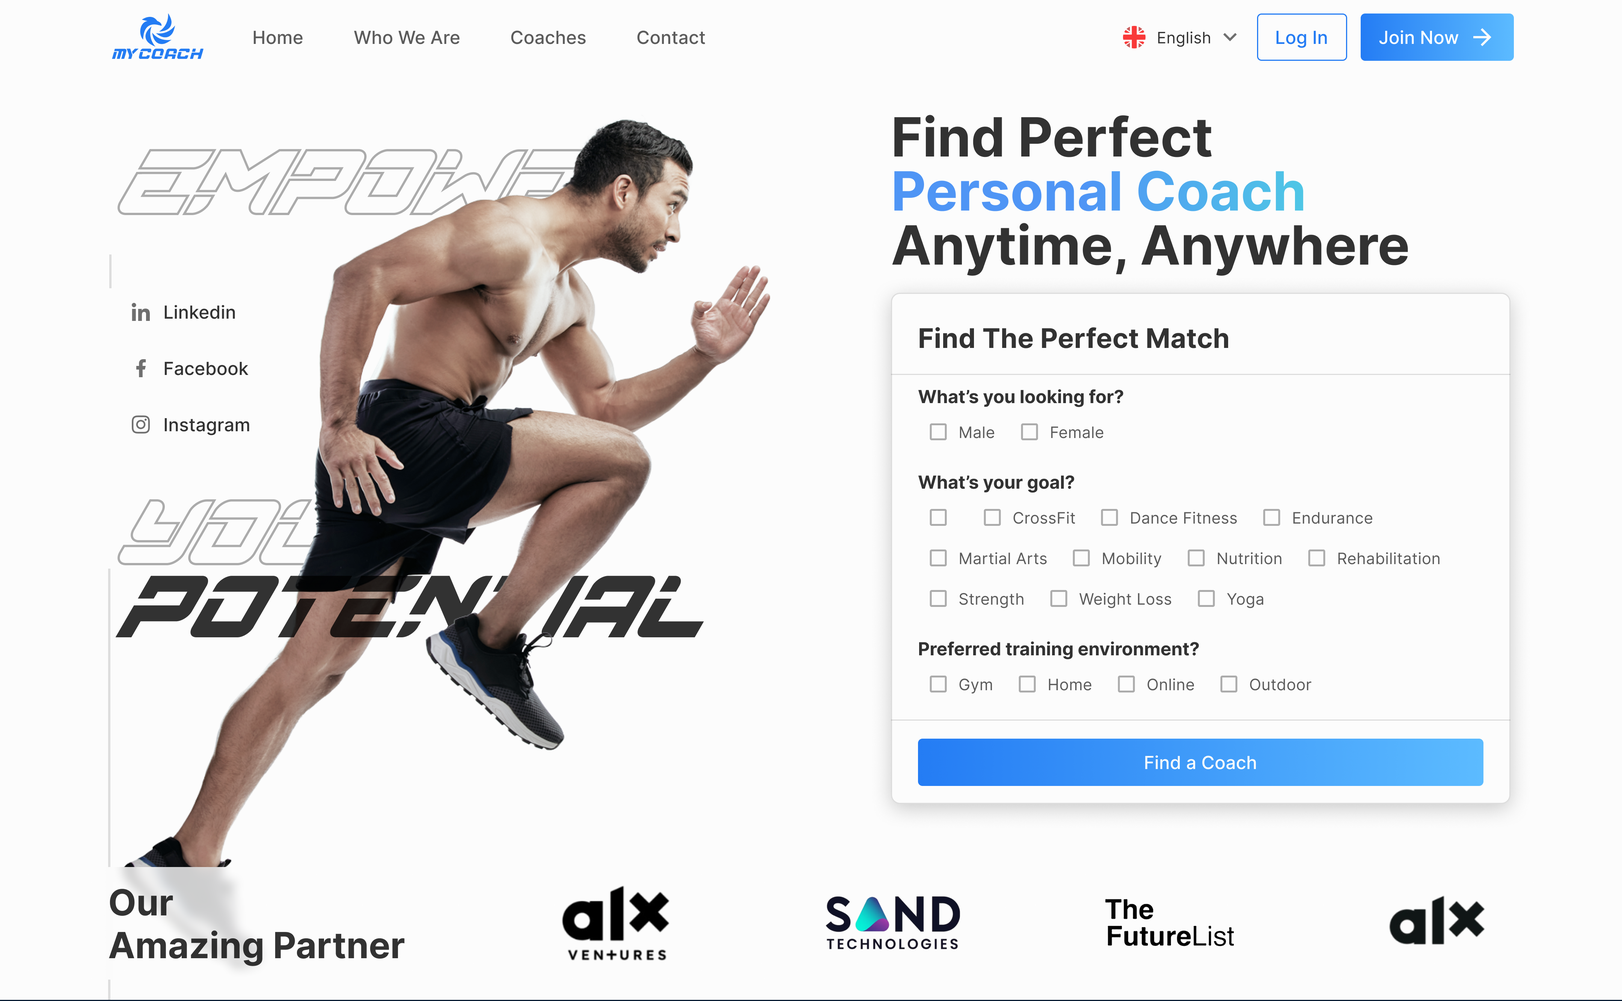
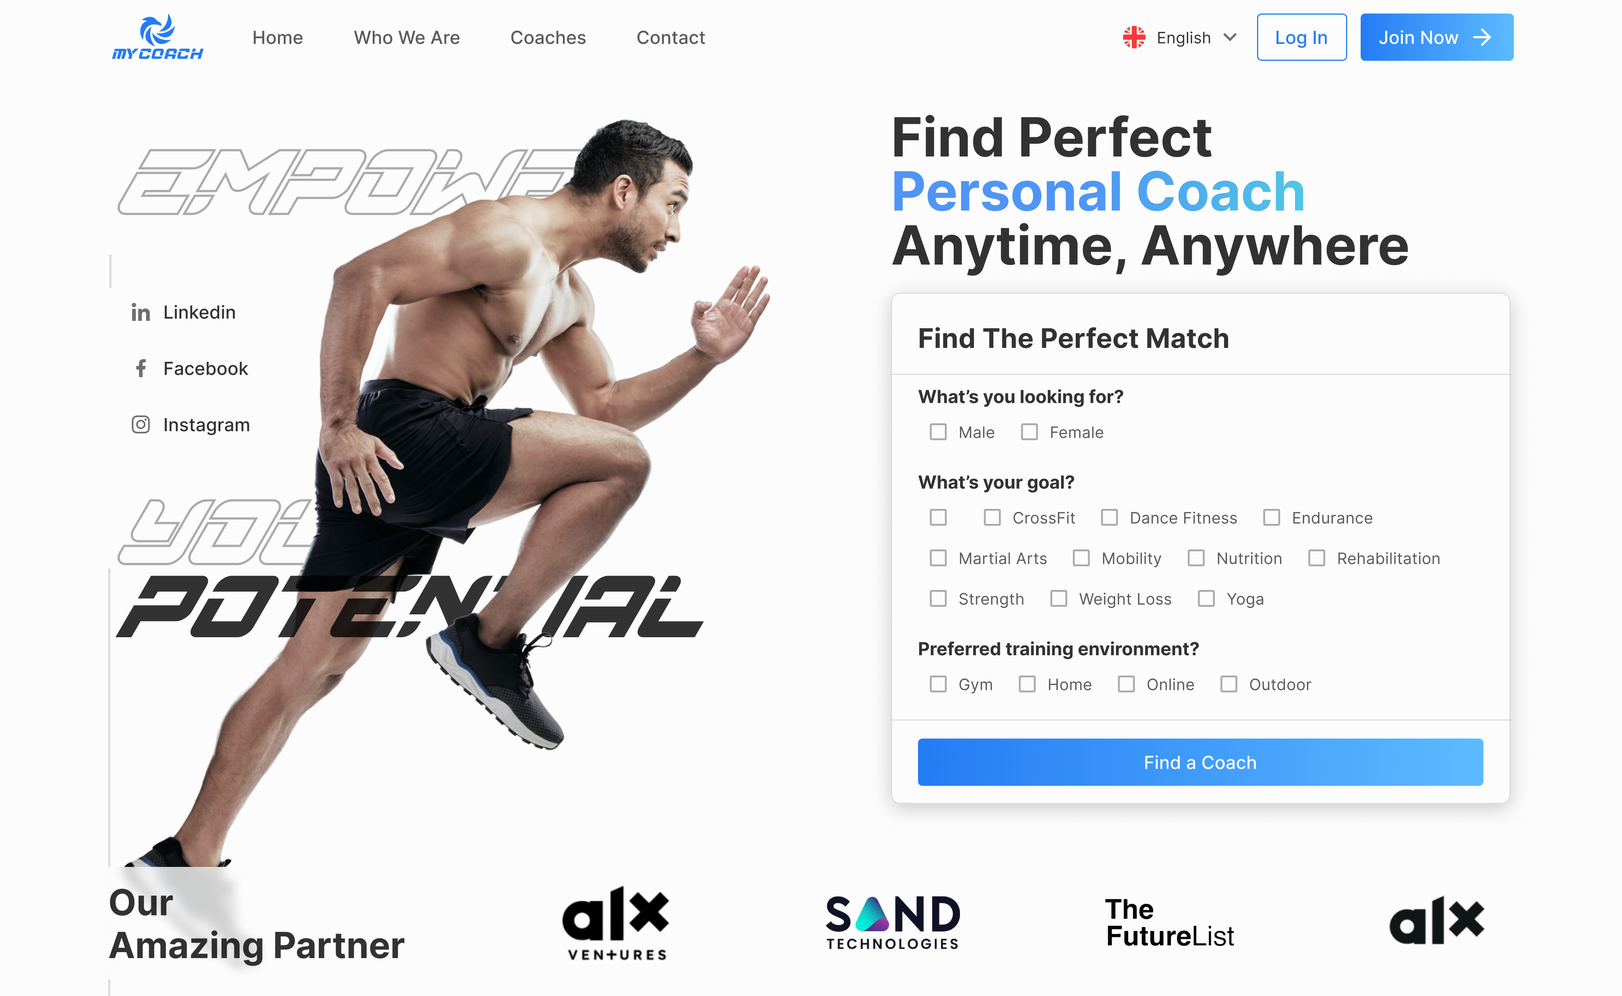
feat: implement CaseStudies and Skills components with associated project assets

diff --git a/src/components/CaseStudies.tsx b/src/components/CaseStudies.tsx
@@ -4,67 +4,201 @@ import { X, ExternalLink, ArrowUpRight } from 'lucide-react';
 import mycoachCaseStudyImage from '../assets/featured-work/mycoach-casestudy.png';
 import vouchifyCaseStudyImage from '../assets/featured-work/vouchify-casestudy.png';
 import lifelineCaseStudyImage from '../assets/featured-work/lifeline-casestudy.png';
+import mycoachOverviewImg from '../assets/featured-work/mycoach-header.png';
+import vouchifyOverviewImg from '../assets/featured-work/vouchify-header.png';
+import lifelineOverviewImg from '../assets/featured-work/lifeline-header.png';
+import vouchifySolutionImg from '../assets/featured-work/vouchify-solution.png';
+import vouchifyOutcomeImg from '../assets/featured-work/vouchify-outcome.png';
+import lifelineSolutionImg from '../assets/featured-work/lifeline-solution.png';
+import lifelineOutcomeImg from '../assets/featured-work/lifeline-outcome.png';
+import mycoachSolutionImg from '../assets/featured-work/mycoach-solution.jpg';
+import mycoachOutcomeImg from '../assets/featured-work/mycoach-outcome.jpg';
 
-const caseStudies = [
+
+
+const BulletList = ({ items }: { items: string[] }) => (
+  <ul className="flex flex-col items-start gap-3 mt-3">
+    {items.map((item, i) => (
+      <li key={i} className="flex items-center gap-2 text-primary leading-relaxed">
+        <span className="w-1.5 h-1.5 rounded-full bg-brand flex-shrink-0" />
+        <span dangerouslySetInnerHTML={{ __html: item }} />
+      </li>
+    ))}
+  </ul>
+);
+
+const SectionImage = ({ src, alt }: { src?: string; alt: string }) => {
+  if (!src) return null;
+  return (
+    <div className="mt-5 rounded-2xl overflow-hidden border border-gray-100 shadow-sm">
+      <img src={src} alt={alt} className="w-full object-cover" />
+    </div>
+  );
+};
+
+type CaseStudy = {
+  id: string;
+  title: string;
+  subtitle: string;
+  image: string;
+  metrics: { label: string; value: string }[];
+  overview: React.ReactNode;
+  overviewImage?: string;
+  challenge: React.ReactNode;
+  role: string[];
+  solution: React.ReactNode;
+  solutionImage?: string;
+  process: React.ReactNode;
+  outcome: React.ReactNode;
+  outcomeImage?: string;
+  technologies: string[];
+  site?: string;
+};
+
+const caseStudies: CaseStudy[] = [
   {
     id: 'mycoach',
     title: 'MYCOACH',
     subtitle: 'Coaching Marketplace Platform',
     image: mycoachCaseStudyImage,
+    overviewImage: mycoachOverviewImg,
+    solutionImage: mycoachSolutionImg,
+    outcomeImage: mycoachOutcomeImg,
     metrics: [
       { label: 'Users', value: '1000+' },
       { label: 'Booking Rate', value: '89%' },
       { label: 'Rating', value: '4.8/5' }
     ],
-    overview: 'A full-featured marketplace connecting coaches with clients, featuring intelligent matching, real-time booking, payment processing, and session management.',
-    problem: 'The coaching industry was fragmented and hard to navigate. Clients struggled to find the right coach, and coaches lacked professional tools to manage their business.',
-    solution: 'We built an end-to-end platform with a smart matching algorithm, integrated booking calendar, payment rails, video session links, and a coach analytics dashboard.',
-    process: 'Discovery → User Research → Wireframes → Hi-fi Prototypes → Engineering → Beta Testing → Launch',
-    outcome: '2,400+ registered users, 89% booking completion rate, and 4.8/5 average coach rating within first 6 months of launch.',
+    overview: <>
+      My Coach is a coaching marketplace designed to help individuals discover, connect with, and book qualified personal trainers based on their personal goals and preferences. The platform aims to remove the friction often associated with finding trusted coaches while providing trainers with tools to manage and grow their businesses.
+      <br /><br />
+      As Co-Founder, Product Designer, and Full-Stack Developer, I was responsible for transforming the idea into a functional MVP, leading product strategy, designing the user experience, and developing the platform's architecture.
+    </>,
+    challenge: <>
+      Many people struggle to find trustworthy fitness coaches who match their specific needs. Existing solutions often lack transparency, personalization, and streamlined booking experiences. Coaches also face challenges managing client relationships and showcasing their expertise online.
+      <br /><br />
+      The goal was to create a platform that would simplify coach discovery, improve trust, and provide a seamless booking experience for both coaches and clients.
+    </>,
+    role: ['CEO', 'Product Strategy', 'UX Research', 'MVP Development', 'Growth Marketing', 'Sales & Partnerships'],
+    solution: 'To address the challenges faced by both coaches and clients, I designed and developed a platform that streamlined the entire coaching journey, from discovery to long-term engagement. The experience was built around personalized coach matching, allowing users to find professionals aligned with their goals, preferences, and coaching needs. I created detailed coach profiles that established trust through transparent information and social proof, while a seamless booking flow simplified scheduling and session management. Beyond the client experience, I designed tools that empowered coaches to manage their services, monitor client progress, and grow their businesses more effectively. The result was a scalable, mobile-responsive platform that balanced user experience, business objectives, and operational efficiency.',
+    process: <>
+      I started by identifying the key pain points experienced by both coaches and clients. Based on these findings, I designed user journeys focused on reducing friction during onboarding, coach discovery, and booking.
+      <br /><br />
+      The platform was structured around three core experiences:
+      <BulletList items={[
+        'Coach discovery and matching',
+        'Session booking and management',
+        'Progress tracking and client engagement',
+      ]} />
+    </>,
+    outcome: <BulletList items={[
+      'Successfully onboarded <strong>14</strong> certified coaches before launch',
+      'Built a waiting list of <strong>25+</strong> early users',
+      'Participated in <strong>ALX Ventures</strong> and <strong>Accelab x MDJS</strong> accelerator programs',
+      'Established the foundation for scaling into additional coaching categories',
+      'Created a complete MVP ready for beta testing',
+    ]} />,
     technologies: ['React', 'Laravel', 'MySQL', 'Figma'],
-    site: 'https://mycoach.ma/'
+    site: 'https://mycoach.ma/',
   },
   {
     id: 'vouchify',
     title: 'VOUCHIFY',
-    subtitle: 'Digital Membership & Voucher',
+    subtitle: 'Digital Membership & Voucher Platform',
     image: vouchifyCaseStudyImage,
+    overviewImage: vouchifyOverviewImg,
+    solutionImage: vouchifySolutionImg,
+    outcomeImage: vouchifyOutcomeImg,
     metrics: [
-      { label: 'Active Widgets', value: '500+' },
-      { label: 'Conversion Lift', value: '+24%' },
-      { label: 'Reviews Managed', value: '10K+' }
+      { label: 'Businesses', value: '1000+' },
+      { label: 'Subscriptions Sold', value: '100K+' },
+      { label: 'Countries', value: '20+' },
     ],
-    overview: 'An all-in-one platform for gathering, managing, and showcasing customer testimonials via customizable widgets and dedicated landing pages.',
-    problem: 'Businesses struggle to collect authentic video and text testimonials, and displaying them attractively requires custom development.',
-    solution: 'A seamless platform with automated collection campaigns, a moderation dashboard, and embeddable wall-of-love widgets.',
-    process: 'Concept → MVP → Customer Feedback → Iteration → V2 Release',
-    outcome: 'Helped over 100 businesses increase their landing page conversion rates by an average of 24% through social proof.',
-    technologies: ['Next.js', 'Node.js', 'PostgreSQL', 'Tailwind'],
-    site: 'https://usevouchify.com/'
+    overview: <>
+      Vouchify is a digital membership and voucher platform that enables businesses to create, distribute, and manage digital passes that integrate seamlessly with mobile wallets.
+      <br /><br />
+      As a Full-Stack Developer and Product Designer, I worked on both the user experience and technical implementation of key platform features.
+    </>,
+    challenge: <>
+      Traditional membership and voucher systems often rely on outdated processes, creating friction for both businesses and customers. The challenge was to create a scalable and intuitive platform that simplified pass creation, management, and distribution.
+    </>,
+    role: ['Product Design', 'Full-Stack Development', 'User Experience Design', 'Feature Planning', 'Technical Architecture'],
+    solution: 'I helped create a modern digital membership and voucher platform that made it easy for businesses to issue, manage, and distribute digital passes while delivering a seamless experience for end users. The product was designed to eliminate the complexity traditionally associated with membership programs by providing intuitive workflows, streamlined onboarding, and centralized management tools. I worked across both design and development to ensure that businesses could efficiently manage their digital offerings while customers could easily access and use passes through mobile wallet integrations. The result was a scalable platform that combined simplicity, flexibility, and strong user experience, making digital memberships more accessible for organizations of all sizes.',
+    process: <>
+      I worked closely with the founding team to understand business requirements and user expectations.
+      <br /><br />
+      The focus was on:
+      <BulletList items={[
+        'Streamlining onboarding flows',
+        'Simplifying pass management',
+        'Creating intuitive dashboards',
+        'Ensuring mobile wallet compatibility',
+        'Building scalable frontend experiences',
+      ]} />
+      <br />
+      Every feature was designed to reduce complexity while maintaining flexibility for different business use cases.
+    </>,
+    outcome: <BulletList items={[
+      'Delivered end-to-end product experiences from design to implementation',
+      'Improved usability through simplified workflows',
+      'Built scalable frontend architecture for future growth',
+      'Helped create a seamless digital membership experience for businesses and customers',
+    ]} />,
+    technologies: ['React', 'TypeScript', 'Tailwind CSS', 'Node.js', 'Figma'],
+    site: 'https://usevouchify.com/',
   },
   {
     id: 'lifeline',
     title: 'LifeLine',
     subtitle: 'Health-Tech Platform',
     image: lifelineCaseStudyImage,
+    overviewImage: lifelineOverviewImg,
+    solutionImage: lifelineSolutionImg,
+    outcomeImage: lifelineOutcomeImg,
     metrics: [
       { label: 'Patients', value: '50K+' },
       { label: 'Hospitals', value: '12' },
-      { label: 'Uptime', value: '99.9%' }
+      { label: 'Uptime', value: '99.9%' },
     ],
-    overview: 'A comprehensive patient portal designed to streamline communication between patients and healthcare providers.',
-    problem: 'Patients experienced long wait times for appointments and difficulty accessing their medical records securely.',
-    solution: 'A secure, HIPAA-compliant portal offering appointment scheduling, secure messaging, and easy access to test results.',
-    process: 'Requirements Gathering → Security Audits → Prototyping → Development → Staged Rollout',
-    outcome: 'Reduced average appointment scheduling time by 60% and decreased hospital administrative overhead by 30%.',
-    technologies: ['Vue.js', 'Python', 'AWS', 'Docker'],
-    site: 'https://mylifeline.health/'
-  }
+    overview: <>
+      LifeLine is a healthcare platform designed to improve access to medical services through digital solutions that connect patients, healthcare providers, pharmacies, and insurers. The platform includes appointment booking, insurance workflows, pharmacy management tools, and patient engagement experiences.
+      <br /><br />
+      As a Product Designer and Frontend Developer, I contributed to both the design and implementation of multiple products within the LifeLine ecosystem.
+    </>,
+    challenge: <>
+      Healthcare workflows are often complex, fragmented, and difficult for patients to navigate. Providers also face operational challenges caused by disconnected systems and inefficient processes.
+      <br /><br />
+      The objective was to simplify healthcare interactions while maintaining compliance, trust, and accessibility for all stakeholders.
+    </>,
+    role: ['Product Design', 'UX/UI Design', 'Frontend Development', 'Workflow Optimization', 'User Journey Mapping'],
+    solution: 'The solution focused on creating a unified digital healthcare experience that simplified interactions between patients, healthcare providers, pharmacies, and insurance partners. I designed and developed intuitive interfaces that transformed complex healthcare workflows into clear, user-friendly experiences. This included patient appointment booking journeys, insurance onboarding processes, pharmacy management tools, and provider dashboards. By establishing a consistent design system and reusable frontend components, I ensured a seamless experience across the entire ecosystem while improving efficiency for both end users and healthcare professionals. The final product reduced friction throughout the healthcare journey and provided a scalable foundation for future services and integrations.',
+    process: <>
+      I collaborated closely with stakeholders to understand the needs of patients, clinics, pharmacies, and insurance partners.
+      <br /><br />
+      The design process focused on:
+      <BulletList items={[
+        'Simplifying healthcare journeys',
+        'Reducing cognitive load',
+        'Improving information accessibility',
+        'Creating scalable design systems',
+        'Building responsive interfaces',
+      ]} />
+      <br />
+      I translated complex healthcare processes into intuitive digital experiences while ensuring consistency across the platform.
+    </>,
+    outcome: <BulletList items={[
+      'Delivered responsive and scalable interfaces across multiple healthcare products',
+      'Improved workflow efficiency through intuitive dashboard experiences',
+      'Helped create a consistent design language across the platform',
+      'Accelerated development through reusable components and structured frontend architecture',
+    ]} />,
+    technologies: ['TypeScript', 'React', 'Node.js', 'Figma'],
+    site: 'https://mylifeline.health/',
+  },
 ];
 
 export default function CaseStudies() {
   const [selectedStudy, setSelectedStudy] = useState<string | null>(null);
-
   const activeStudy = caseStudies.find(study => study.id === selectedStudy);
 
   return (
@@ -77,7 +211,7 @@ export default function CaseStudies() {
           transition={{ duration: 0.6 }}
           className="flex flex-col items-start mb-12 text-left"
         >
-          <h2 className="text-md mb-2 tracking-widest font-medium uppercase bg-clip-text text-transparent "
+          <h2 className="text-md mb-2 tracking-widest font-medium uppercase bg-clip-text text-transparent"
             style={{ backgroundImage: 'linear-gradient(to right, #0088FF 0%, #364a65ff 100%)' }}>
             Featured Work
           </h2>
@@ -111,7 +245,10 @@ export default function CaseStudies() {
                   <p className="text-gray-300 text-sm">{study.subtitle}</p>
                   <button
                     onClick={() => setSelectedStudy(study.id)}
-                    className="inline-flex items-center justify-center gap-2 bg-gradient-brand text-white mt-2 px-8 py-1 rounded-full font-medium transition-all shadow-md hover:shadow-lg transform hover:-translate-y-0.5 duration-200 cursor-pointer">View Case Study<ArrowUpRight size={16} /></button>
+                    className="inline-flex items-center justify-center gap-2 bg-gradient-brand text-white mt-2 px-8 py-1 rounded-full font-medium transition-all shadow-md hover:shadow-lg transform hover:-translate-y-0.5 duration-200 cursor-pointer"
+                  >
+                    View Case Study <ArrowUpRight size={16} />
+                  </button>
                 </div>
               </div>
             </motion.div>
@@ -143,6 +280,7 @@ export default function CaseStudies() {
                 <X size={20} className="text-primary group-hover:rotate-90 transition-transform duration-300" />
               </button>
 
+              {/* Header image */}
               <div className="w-full h-64 md:h-80 relative bg-gray-100">
                 <img
                   src={activeStudy.image}
@@ -151,14 +289,27 @@ export default function CaseStudies() {
                   onError={(e) => { (e.target as HTMLImageElement).src = 'https://via.placeholder.com/1200x600'; }}
                 />
                 <div className="absolute inset-0 bg-gradient-to-t from-black/80 to-transparent flex items-end p-8">
-                  <div>
-                    <h2 className="text-4xl font-bold text-white mb-2">{activeStudy.title}</h2>
+                  <div className="flex flex-col gap-2 w-full">
+                    <div className="flex items-center gap-4 w-full">
+                      <h2 className="text-4xl font-bold text-white">{activeStudy.title}</h2>
+                      {activeStudy.site && (
+                        <a
+                          href={activeStudy.site}
+                          target="_blank"
+                          rel="noopener noreferrer"
+                          className="flex items-center gap-2 bg-gradient-brand text-white px-3 py-1 md:px-5 md:py-2 rounded-full font-medium hover:-translate-y-0.5 transition-all duration-200 shadow-md text-sm md:text-base whitespace-nowrap"
+                        >
+                          Visit Live Site <ExternalLink size={16} />
+                        </a>
+                      )}
+                    </div>
                     <p className="text-xl text-gray-300">{activeStudy.subtitle}</p>
                   </div>
                 </div>
               </div>
 
               <div className="p-8">
+                {/* Metrics */}
                 <div className="grid grid-cols-3 gap-4 mb-10">
                   {activeStudy.metrics.map((metric, i) => (
                     <div key={i} className="text-center p-2 md:p-4 rounded-2xl border border-gray-100 bg-gray-50">
@@ -169,26 +320,52 @@ export default function CaseStudies() {
                 </div>
 
                 <div className="space-y-8">
+                  {/* Overview */}
                   <div>
                     <h3 className="text-xl font-semibold text-brand mb-3">Overview</h3>
-                    <p className="text-primary leading-relaxed">{activeStudy.overview}</p>
+                    <div className="text-primary leading-relaxed">{activeStudy.overview}</div>
+                    <SectionImage src={activeStudy.overviewImage} alt={`${activeStudy.title} overview`} />
                   </div>
+
+                  {/* Challenge */}
                   <div>
-                    <h3 className="text-xl font-semibold text-brand mb-3">Problem</h3>
-                    <p className="text-primary leading-relaxed">{activeStudy.problem}</p>
+                    <h3 className="text-xl font-semibold text-brand mb-3">The Challenge</h3>
+                    <div className="text-primary leading-relaxed">{activeStudy.challenge}</div>
                   </div>
+
+                  {/* Role */}
+                  <div>
+                    <h3 className="text-xl font-semibold text-brand mb-4">My Role</h3>
+                    <div className="flex flex-wrap gap-3">
+                      {activeStudy.role.map((role, i) => (
+                        <span key={i} className="px-4 py-2 border border-gray-200 rounded-full text-sm font-sm text-primary">
+                          {role}
+                        </span>
+                      ))}
+                    </div>
+                  </div>
+
+                  {/* Solution */}
                   <div>
                     <h3 className="text-xl font-semibold text-brand mb-3">Solution</h3>
-                    <p className="text-primary leading-relaxed">{activeStudy.solution}</p>
+                    <div className="text-primary leading-relaxed">{activeStudy.solution}</div>
+                    <SectionImage src={activeStudy.solutionImage} alt={`${activeStudy.title} solution`} />
                   </div>
+
+                  {/* Process */}
                   <div>
                     <h3 className="text-xl font-semibold text-brand mb-3">Process</h3>
-                    <p className="text-primary leading-relaxed">{activeStudy.process}</p>
+                    <div className="text-primary leading-relaxed">{activeStudy.process}</div>
                   </div>
+
+                  {/* Outcome */}
                   <div>
                     <h3 className="text-xl font-semibold text-brand mb-3">Outcome</h3>
-                    <p className="text-primary leading-relaxed">{activeStudy.outcome}</p>
+                    <div className="text-primary leading-relaxed">{activeStudy.outcome}</div>
+                    <SectionImage src={activeStudy.outcomeImage} alt={`${activeStudy.title} outcome`} />
                   </div>
+
+                  {/* Technologies */}
                   <div>
                     <h3 className="text-xl font-semibold text-brand mb-4">Technologies</h3>
                     <div className="flex flex-wrap gap-3">
@@ -199,12 +376,6 @@ export default function CaseStudies() {
                       ))}
                     </div>
                   </div>
-                </div>
-
-                <div className="mt-10 pt-8 border-t border-gray-100 flex justify-center">
-                  <a href={activeStudy.site} target='_blank' className="flex items-center gap-2 bg-gradient-brand text-white px-8 py-3 rounded-full font-medium hover:bg-blue-600 transition-colors shadow-md">
-                    Visit Live Site <ExternalLink size={18} />
-                  </a>
                 </div>
               </div>
             </motion.div>

diff --git a/src/components/Startups.tsx b/src/components/Startups.tsx
@@ -48,12 +48,12 @@ function StartupCard({ startup, index }: { startup: typeof cards[number]; index:
       whileInView={{ opacity: 1, scale: 1, y: 0 }}
       viewport={{ once: true, margin: "-50px" }}
       transition={{ duration: 0.5, delay: index * 0.08, ease: "easeOut" }}
-      whileHover={{ scale: 1.02, y: -2, transition: { duration: 0.15, ease: "easeOut" } }}
+      whileHover={{ scale: 1.01, y: -2, transition: { duration: 0.15, ease: "easeOut" } }}
       className="group bg-gray-800/50 border border-gray-700 rounded-2xl p-6 hover:shadow-lg hover:shadow-blue-500/20 cursor-pointer"
       style={{ willChange: "transform" }}
     >
-      <div className="w-12 h-12 bg-[#0088FF]/10 text-brand rounded-xl mb-6 flex items-center justify-center font-bold transition-transform duration-200 group-hover:scale-110 group-hover:-translate-y-1 group-hover:outline-2 group-hover:outline-brand">
-        <div className="group-hover:scale-105 transition-transform duration-200">
+      <div className="w-12 h-12 bg-[#0088FF]/10 text-brand rounded-xl mb-6 flex items-center justify-center font-bold transition-transform duration-200 group-hover:scale-101 group-hover:outline-2 group-hover:outline-brand">
+        <div className="group-hover:scale-103 transition-transform duration-200">
           {startup.icon}
         </div>
       </div>

diff --git a/src/components/Skills.tsx b/src/components/Skills.tsx
@@ -53,7 +53,7 @@ export default function Skills() {
           initial={{ opacity: 0, y: 20 }}
           whileInView={{ opacity: 1, y: 0 }}
           viewport={{ once: true }}
-          transition={{ duration: 0.6 }}
+          transition={{ duration: 0.2 }}
           className="flex flex-col items-start mb-12 text-left"
         >
           <h2 className="text-md mb-2 tracking-widest font-medium uppercase bg-clip-text text-transparent bg-gradient-to-r from-brand to-primary">
